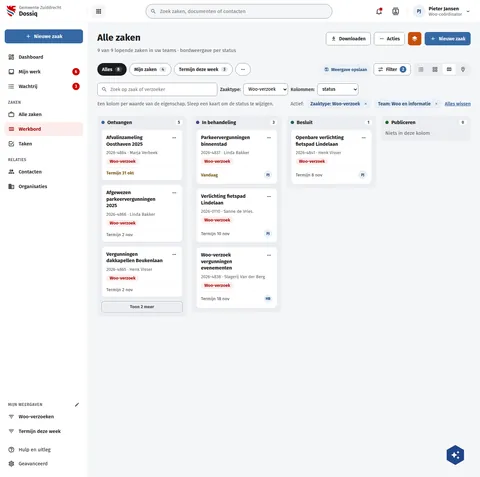
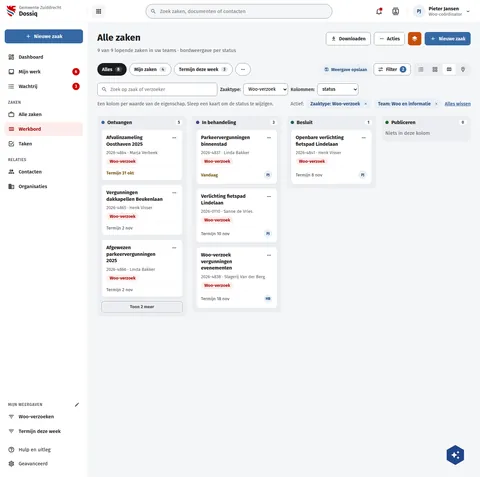
fix(screens): DqWerkbord and DqZaken order the equal-deadline pair as dossiq does
Vergunningen dakkapellen Beukenlaan (2026-4865) and Afgewezen
parkeervergunningen 2025 (2026-4866) share a deadline. dossiq breaks the
tie on receivedAt ascending (b57), so 2026-4865 comes first, as
DqZakenSorteren already draws it (#741). Werkbord's Ontvangen column and
the Zaken table now draw the same order.

Assisted-by: ClaudeCode:claude-opus-5-5

Changed region(s): [[0.2188, 0.3816, 0.3438, 0.5577]]

diff --git a/preview/screens/boards/DqZaken.html b/preview/screens/boards/DqZaken.html
@@ -223,16 +223,6 @@ a{color:var(--sc-primary, #3669a5)}a:hover{color:var(--sc-primary-deep, #234a78)
                   </tr>
                 
                   <tr style="border-top: 1px solid var(--sc-work-soft, #eef0f3)">
-                    <td style="padding: 14px 16px"><input type="checkbox" aria-label="Selecteer Afgewezen parkeervergunningen 2025" style="width: 18px; height: 18px; accent-color: var(--sc-primary, #3669a5)"></td>
-                    <td style="padding: 14px 16px"><span style="display: flex; flex-direction: column; gap: 2px"><a href="DqZaak.html" style="font-size: 15px; font-weight: 600; color: var(--sc-work-ink, #1b1c1d)">Afgewezen parkeervergunningen 2025</a><span style="color: var(--sc-work-muted, #5e6168)">2026-4866 · Linda Bakker</span></span></td>
-                    <td style="padding: 14px 16px">Woo-verzoek</td>
-                    <td style="padding: 14px 16px"><span style="display: inline-block; padding: 3px 10px; border-radius: 12px; font-size: 13px; font-weight: 600; background: var(--sc-primary-light, #eaf0f7); color: var(--sc-primary-deep, #234a78)">Ontvangen</span></td>
-                    <td style="padding: 14px 16px"><span style="display: flex; align-items: center; gap: 8px">—</span></td>
-                    <td style="padding: 14px 16px"><span style="color: var(--sc-work-ink, #1b1c1d)">2 nov</span></td>
-                    <td style="padding: 14px 16px; text-align: right"><button type="button" aria-label="Acties voor Afgewezen parkeervergunningen 2025: oppakken, gelezen of ongelezen, volgen" style="width: 34px; height: 34px; display: inline-flex; align-items: center; justify-content: center; border: 1px solid var(--sc-work-field, #828a95); border-radius: 8px; background: #ffffff; color: var(--sc-work-text, #3d4047)"><svg width="18" height="18" viewbox="0 0 24 24" fill="currentColor" aria-hidden="true"><path d="M16,12A2,2 0 0,1 18,10A2,2 0 0,1 20,12A2,2 0 0,1 18,14A2,2 0 0,1 16,12M10,12A2,2 0 0,1 12,10A2,2 0 0,1 14,12A2,2 0 0,1 12,14A2,2 0 0,1 10,12M4,12A2,2 0 0,1 6,10A2,2 0 0,1 8,12A2,2 0 0,1 6,14A2,2 0 0,1 4,12Z"></path></svg></button></td>
-                  </tr>
-                
-                  <tr style="border-top: 1px solid var(--sc-work-soft, #eef0f3)">
                     <td style="padding: 14px 16px"><input type="checkbox" aria-label="Selecteer Vergunningen dakkapellen Beukenlaan" style="width: 18px; height: 18px; accent-color: var(--sc-primary, #3669a5)"></td>
                     <td style="padding: 14px 16px"><span style="display: flex; flex-direction: column; gap: 2px"><a href="DqZaak.html" style="font-size: 15px; font-weight: 600; color: var(--sc-work-ink, #1b1c1d)">Vergunningen dakkapellen Beukenlaan</a><span style="color: var(--sc-work-muted, #5e6168)">2026-4865 · Henk Visser</span></span></td>
                     <td style="padding: 14px 16px">Woo-verzoek</td>
@@ -240,6 +230,16 @@ a{color:var(--sc-primary, #3669a5)}a:hover{color:var(--sc-primary-deep, #234a78)
                     <td style="padding: 14px 16px"><span style="display: flex; align-items: center; gap: 8px">—</span></td>
                     <td style="padding: 14px 16px"><span style="color: var(--sc-work-ink, #1b1c1d)">2 nov</span></td>
                     <td style="padding: 14px 16px; text-align: right"><button type="button" aria-label="Acties voor Vergunningen dakkapellen Beukenlaan: oppakken, gelezen of ongelezen, volgen" style="width: 34px; height: 34px; display: inline-flex; align-items: center; justify-content: center; border: 1px solid var(--sc-work-field, #828a95); border-radius: 8px; background: #ffffff; color: var(--sc-work-text, #3d4047)"><svg width="18" height="18" viewbox="0 0 24 24" fill="currentColor" aria-hidden="true"><path d="M16,12A2,2 0 0,1 18,10A2,2 0 0,1 20,12A2,2 0 0,1 18,14A2,2 0 0,1 16,12M10,12A2,2 0 0,1 12,10A2,2 0 0,1 14,12A2,2 0 0,1 12,14A2,2 0 0,1 10,12M4,12A2,2 0 0,1 6,10A2,2 0 0,1 8,12A2,2 0 0,1 6,14A2,2 0 0,1 4,12Z"></path></svg></button></td>
+                  </tr>
+                
+                  <tr style="border-top: 1px solid var(--sc-work-soft, #eef0f3)">
+                    <td style="padding: 14px 16px"><input type="checkbox" aria-label="Selecteer Afgewezen parkeervergunningen 2025" style="width: 18px; height: 18px; accent-color: var(--sc-primary, #3669a5)"></td>
+                    <td style="padding: 14px 16px"><span style="display: flex; flex-direction: column; gap: 2px"><a href="DqZaak.html" style="font-size: 15px; font-weight: 600; color: var(--sc-work-ink, #1b1c1d)">Afgewezen parkeervergunningen 2025</a><span style="color: var(--sc-work-muted, #5e6168)">2026-4866 · Linda Bakker</span></span></td>
+                    <td style="padding: 14px 16px">Woo-verzoek</td>
+                    <td style="padding: 14px 16px"><span style="display: inline-block; padding: 3px 10px; border-radius: 12px; font-size: 13px; font-weight: 600; background: var(--sc-primary-light, #eaf0f7); color: var(--sc-primary-deep, #234a78)">Ontvangen</span></td>
+                    <td style="padding: 14px 16px"><span style="display: flex; align-items: center; gap: 8px">—</span></td>
+                    <td style="padding: 14px 16px"><span style="color: var(--sc-work-ink, #1b1c1d)">2 nov</span></td>
+                    <td style="padding: 14px 16px; text-align: right"><button type="button" aria-label="Acties voor Afgewezen parkeervergunningen 2025: oppakken, gelezen of ongelezen, volgen" style="width: 34px; height: 34px; display: inline-flex; align-items: center; justify-content: center; border: 1px solid var(--sc-work-field, #828a95); border-radius: 8px; background: #ffffff; color: var(--sc-work-text, #3d4047)"><svg width="18" height="18" viewbox="0 0 24 24" fill="currentColor" aria-hidden="true"><path d="M16,12A2,2 0 0,1 18,10A2,2 0 0,1 20,12A2,2 0 0,1 18,14A2,2 0 0,1 16,12M10,12A2,2 0 0,1 12,10A2,2 0 0,1 14,12A2,2 0 0,1 12,14A2,2 0 0,1 10,12M4,12A2,2 0 0,1 6,10A2,2 0 0,1 8,12A2,2 0 0,1 6,14A2,2 0 0,1 4,12Z"></path></svg></button></td>
                   </tr>
                 
                   <tr style="border-top: 1px solid var(--sc-work-soft, #eef0f3)">

diff --git a/preview/screens/boards/DqWerkbord.html b/preview/screens/boards/DqWerkbord.html
@@ -202,15 +202,15 @@ a{color:var(--sc-primary, #3669a5)}a:hover{color:var(--sc-primary-deep, #234a78)
                   </a>
                 
                   <a href="DqZaak.html" style="display: flex; flex-direction: column; gap: 8px; padding: 14px; border-radius: 10px; background: #ffffff; border: 1px solid var(--sc-work-line, #e4e6ea); box-shadow: 0 1px 2px rgba(27,28,29,0.06); text-decoration: none">
-                    <span style="display: flex; align-items: flex-start; gap: 8px"><strong style="flex: 1; font-size: 15px; color: var(--sc-work-ink, #1b1c1d); line-height: 1.3">Afgewezen parkeervergunningen 2025</strong><span aria-label="Acties" style="flex: none; display: inline-flex; align-items: center; justify-content: center; width: 28px; height: 28px; margin: -4px -4px 0 0; border-radius: 8px; color: var(--sc-work-ink, #1b1c1d)"><svg width="16" height="16" viewbox="0 0 24 24" fill="currentColor" aria-hidden="true"><path d="M16,12A2,2 0 0,1 18,10A2,2 0 0,1 20,12A2,2 0 0,1 18,14A2,2 0 0,1 16,12M10,12A2,2 0 0,1 12,10A2,2 0 0,1 14,12A2,2 0 0,1 12,14A2,2 0 0,1 10,12M4,12A2,2 0 0,1 6,10A2,2 0 0,1 8,12A2,2 0 0,1 6,14A2,2 0 0,1 4,12Z"></path></svg></span></span>
-                    <span style="font-size: 13px; color: var(--sc-work-muted, #5e6168)">2026-4866 · Linda Bakker</span>
+                    <span style="display: flex; align-items: flex-start; gap: 8px"><strong style="flex: 1; font-size: 15px; color: var(--sc-work-ink, #1b1c1d); line-height: 1.3">Vergunningen dakkapellen Beukenlaan</strong><span aria-label="Acties" style="flex: none; display: inline-flex; align-items: center; justify-content: center; width: 28px; height: 28px; margin: -4px -4px 0 0; border-radius: 8px; color: var(--sc-work-ink, #1b1c1d)"><svg width="16" height="16" viewbox="0 0 24 24" fill="currentColor" aria-hidden="true"><path d="M16,12A2,2 0 0,1 18,10A2,2 0 0,1 20,12A2,2 0 0,1 18,14A2,2 0 0,1 16,12M10,12A2,2 0 0,1 12,10A2,2 0 0,1 14,12A2,2 0 0,1 12,14A2,2 0 0,1 10,12M4,12A2,2 0 0,1 6,10A2,2 0 0,1 8,12A2,2 0 0,1 6,14A2,2 0 0,1 4,12Z"></path></svg></span></span>
+                    <span style="font-size: 13px; color: var(--sc-work-muted, #5e6168)">2026-4865 · Henk Visser</span>
                     <span style="display: flex; flex-wrap: wrap; gap: 6px; align-items: center"><span style="display: inline-block; padding: 3px 10px; border-radius: 12px; font-size: 13px; font-weight: 600; white-space: nowrap; background: #fcedec; color: var(--sc-accent-deep, #a30000)">Woo-verzoek</span></span>
                     <span style="display: flex; justify-content: space-between; align-items: center; gap: 8px; padding-top: 8px; border-top: 1px solid var(--sc-work-soft, #eef0f3)"><span style="font-size: 13px; color: var(--sc-work-text, #3d4047)">Termijn 2 nov</span></span>
                   </a>
                 
                   <a href="DqZaak.html" style="display: flex; flex-direction: column; gap: 8px; padding: 14px; border-radius: 10px; background: #ffffff; border: 1px solid var(--sc-work-line, #e4e6ea); box-shadow: 0 1px 2px rgba(27,28,29,0.06); text-decoration: none">
-                    <span style="display: flex; align-items: flex-start; gap: 8px"><strong style="flex: 1; font-size: 15px; color: var(--sc-work-ink, #1b1c1d); line-height: 1.3">Vergunningen dakkapellen Beukenlaan</strong><span aria-label="Acties" style="flex: none; display: inline-flex; align-items: center; justify-content: center; width: 28px; height: 28px; margin: -4px -4px 0 0; border-radius: 8px; color: var(--sc-work-ink, #1b1c1d)"><svg width="16" height="16" viewbox="0 0 24 24" fill="currentColor" aria-hidden="true"><path d="M16,12A2,2 0 0,1 18,10A2,2 0 0,1 20,12A2,2 0 0,1 18,14A2,2 0 0,1 16,12M10,12A2,2 0 0,1 12,10A2,2 0 0,1 14,12A2,2 0 0,1 12,14A2,2 0 0,1 10,12M4,12A2,2 0 0,1 6,10A2,2 0 0,1 8,12A2,2 0 0,1 6,14A2,2 0 0,1 4,12Z"></path></svg></span></span>
-                    <span style="font-size: 13px; color: var(--sc-work-muted, #5e6168)">2026-4865 · Henk Visser</span>
+                    <span style="display: flex; align-items: flex-start; gap: 8px"><strong style="flex: 1; font-size: 15px; color: var(--sc-work-ink, #1b1c1d); line-height: 1.3">Afgewezen parkeervergunningen 2025</strong><span aria-label="Acties" style="flex: none; display: inline-flex; align-items: center; justify-content: center; width: 28px; height: 28px; margin: -4px -4px 0 0; border-radius: 8px; color: var(--sc-work-ink, #1b1c1d)"><svg width="16" height="16" viewbox="0 0 24 24" fill="currentColor" aria-hidden="true"><path d="M16,12A2,2 0 0,1 18,10A2,2 0 0,1 20,12A2,2 0 0,1 18,14A2,2 0 0,1 16,12M10,12A2,2 0 0,1 12,10A2,2 0 0,1 14,12A2,2 0 0,1 12,14A2,2 0 0,1 10,12M4,12A2,2 0 0,1 6,10A2,2 0 0,1 8,12A2,2 0 0,1 6,14A2,2 0 0,1 4,12Z"></path></svg></span></span>
+                    <span style="font-size: 13px; color: var(--sc-work-muted, #5e6168)">2026-4866 · Linda Bakker</span>
                     <span style="display: flex; flex-wrap: wrap; gap: 6px; align-items: center"><span style="display: inline-block; padding: 3px 10px; border-radius: 12px; font-size: 13px; font-weight: 600; white-space: nowrap; background: #fcedec; color: var(--sc-accent-deep, #a30000)">Woo-verzoek</span></span>
                     <span style="display: flex; justify-content: space-between; align-items: center; gap: 8px; padding-top: 8px; border-top: 1px solid var(--sc-work-soft, #eef0f3)"><span style="font-size: 13px; color: var(--sc-work-text, #3d4047)">Termijn 2 nov</span></span>
                   </a>

diff --git a/screens-src/zuiddrecht/DqWerkbord.dc.html b/screens-src/zuiddrecht/DqWerkbord.dc.html
@@ -101,7 +101,7 @@ class Component extends DCLogic {
     const card = (number, title, who, ty, ownerName, d, lvl) => ({ title, sub: number + ' · ' + who, pill: ty, pillStyle: type[ty], due: d, dueStyle: dueS(lvl), owner: ownerName.split(' ').map((p) => p[0]).join(''), hasOwner: ownerName !== '', ownerName, box: box(lvl === 'late') });
     const PJ = 'Pieter Jansen', HB = 'Hanna Bos';
     const cols = [
-      { title: 'Ontvangen', dot: dot('#3669a5'), total: 5, cards: [card('2026-4864', 'Afvalinzameling Oosthaven 2025', 'Marja Verbeek', 'Woo-verzoek', '', 'Termijn 31 okt', 'soon'), card('2026-4866', 'Afgewezen parkeervergunningen 2025', 'Linda Bakker', 'Woo-verzoek', '', 'Termijn 2 nov', 'ok'), card('2026-4865', 'Vergunningen dakkapellen Beukenlaan', 'Henk Visser', 'Woo-verzoek', '', 'Termijn 2 nov', 'ok')] },
+      { title: 'Ontvangen', dot: dot('#3669a5'), total: 5, cards: [card('2026-4864', 'Afvalinzameling Oosthaven 2025', 'Marja Verbeek', 'Woo-verzoek', '', 'Termijn 31 okt', 'soon'), card('2026-4865', 'Vergunningen dakkapellen Beukenlaan', 'Henk Visser', 'Woo-verzoek', '', 'Termijn 2 nov', 'ok'), card('2026-4866', 'Afgewezen parkeervergunningen 2025', 'Linda Bakker', 'Woo-verzoek', '', 'Termijn 2 nov', 'ok')] },
       { title: 'In behandeling', dot: dot('#4a3f8f'), cards: [card('2026-4837', 'Parkeervergunningen binnenstad', 'Linda Bakker', 'Woo-verzoek', PJ, 'Vandaag', 'soon'), card('2026-0110', 'Verlichting fietspad Lindelaan', 'Sanne de Vries', 'Woo-verzoek', PJ, 'Termijn 10 nov', 'ok'), card('2026-4838', 'Woo-verzoek vergunningen evenementen', 'Slagerij Van der Berg', 'Woo-verzoek', HB, 'Termijn 18 nov', 'ok')] },
       { title: 'Besluit', dot: dot('#1d5e66'), cards: [card('2026-4841', 'Openbare verlichting fietspad Lindelaan', 'Henk Visser', 'Woo-verzoek', PJ, 'Termijn 8 nov', 'ok')] },
       { title: 'Publiceren', dot: dot('#1e6b2a'), cards: [] }

diff --git a/screens-src/zuiddrecht/DqZaken.dc.html b/screens-src/zuiddrecht/DqZaken.dc.html
@@ -107,8 +107,8 @@ class Component extends DCLogic {
     const data = [
       ['Parkeervergunningen binnenstad', '2026-4837', 'Linda Bakker', 'Woo-verzoek', 'In behandeling', 'PJ', 'Pieter Jansen', '27 okt', 'soon'],
       ['Afvalinzameling Oosthaven 2025', '2026-4864', 'Marja Verbeek', 'Woo-verzoek', 'Ontvangen', '', '—', '31 okt', 'soon'],
-      ['Afgewezen parkeervergunningen 2025', '2026-4866', 'Linda Bakker', 'Woo-verzoek', 'Ontvangen', '', '—', '2 nov', 'ok'],
       ['Vergunningen dakkapellen Beukenlaan', '2026-4865', 'Henk Visser', 'Woo-verzoek', 'Ontvangen', '', '—', '2 nov', 'ok'],
+      ['Afgewezen parkeervergunningen 2025', '2026-4866', 'Linda Bakker', 'Woo-verzoek', 'Ontvangen', '', '—', '2 nov', 'ok'],
       ['Losliggende stoeptegels Kerkplein', '2026-4870', 'Henk Bakker', 'Melding openbare ruimte', 'Ontvangen', '', '—', '5 nov', 'ok'],
       ['Openbare verlichting fietspad Lindelaan', '2026-4841', 'Henk Visser', 'Woo-verzoek', 'Besluit', 'PJ', 'Pieter Jansen', '8 nov', 'ok'],
       ['Verlichting fietspad Lindelaan', '2026-0110', 'Sanne de Vries', 'Woo-verzoek', 'In behandeling', 'PJ', 'Pieter Jansen', '10 nov', 'ok'],
